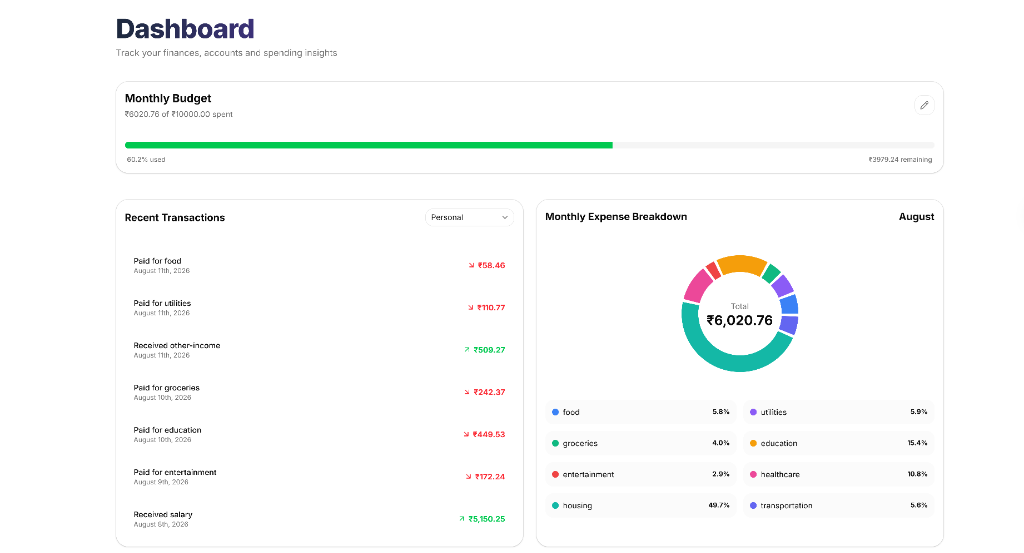
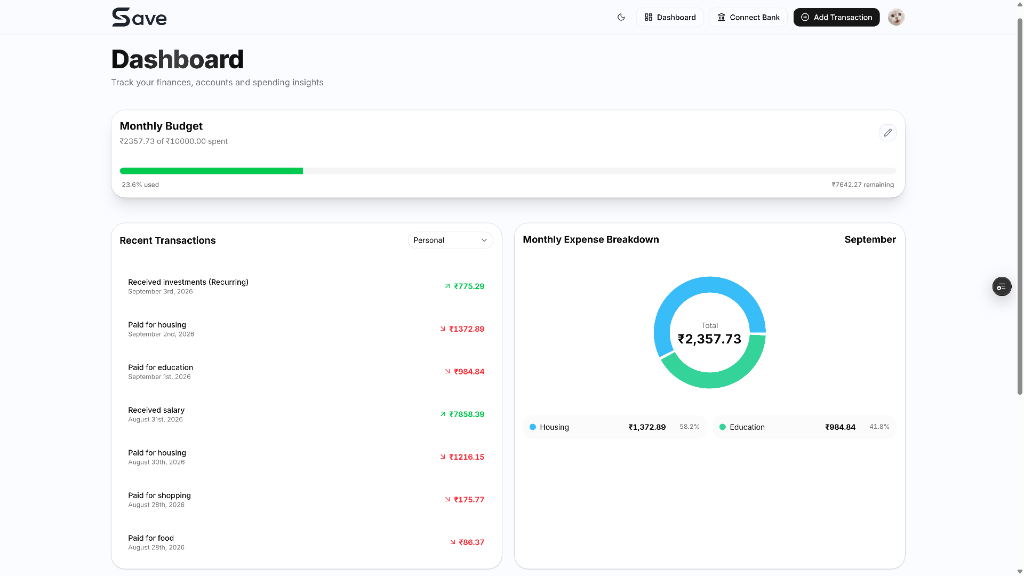
Add new Save project preview images and adjust window aspect ratio

diff --git a/src/components/work-section.tsx b/src/components/work-section.tsx
@@ -238,7 +238,7 @@ export default function WorkSection({ projects = [], workPoints = DEFAULT_WORK_P
                 </div>
 
                 {/* Right Column (7 Cols): Browser Window */}
-                <div className="relative aspect-[16/9.5] min-h-[17rem] max-h-[22rem] w-full overflow-hidden rounded-2xl border border-zinc-200/80 bg-white shadow-[0_10px_28px_-8px_rgba(15,23,42,0.1)] lg:col-span-7">
+                <div className="relative aspect-[16/10.5] min-h-[18rem] max-h-[26rem] w-full overflow-hidden rounded-2xl border border-zinc-200/80 bg-white shadow-[0_10px_28px_-8px_rgba(15,23,42,0.1)] lg:col-span-7">
                   <ProjectMedia
                     name={project.name}
                     url={project.live ?? project.github ?? ""}

diff --git a/src/app/page.tsx b/src/app/page.tsx
@@ -49,9 +49,9 @@ const FEATURED_PROJECTS = [
     live: "https://save-finance-platform.vercel.app",
     github: "https://github.com/abhishek-vetal/save-finance-platform",
     screenshots: [
-      { src: "/save-landing.png", label: "High Res Landing" },
+      { src: "/save-landing.png", label: "Landing Page" },
       { src: "/save-dashboard.png", label: "Dashboard" },
-      { src: "/save-overview.png", label: "Account Overview" },
+      { src: "/save-overview.png", label: "Personal Overview" },
     ],
   },
 ];
